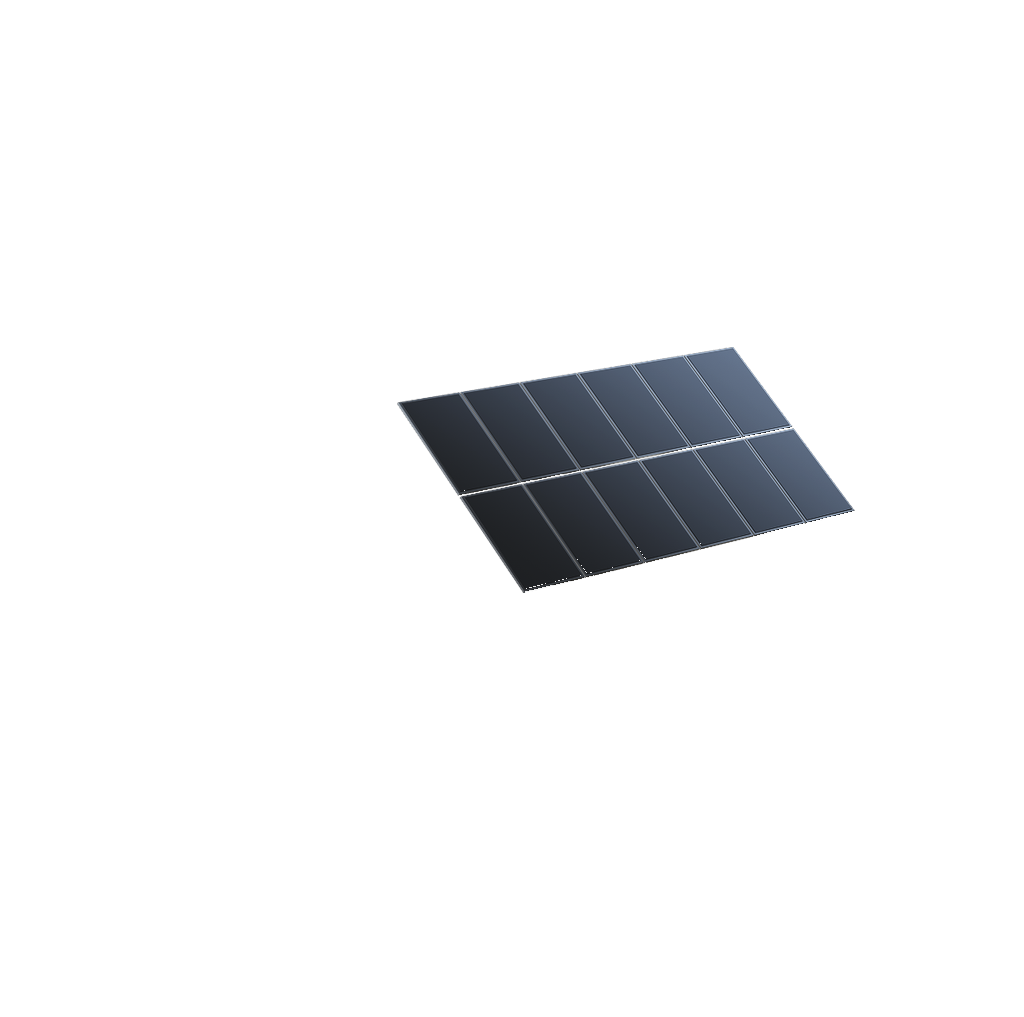
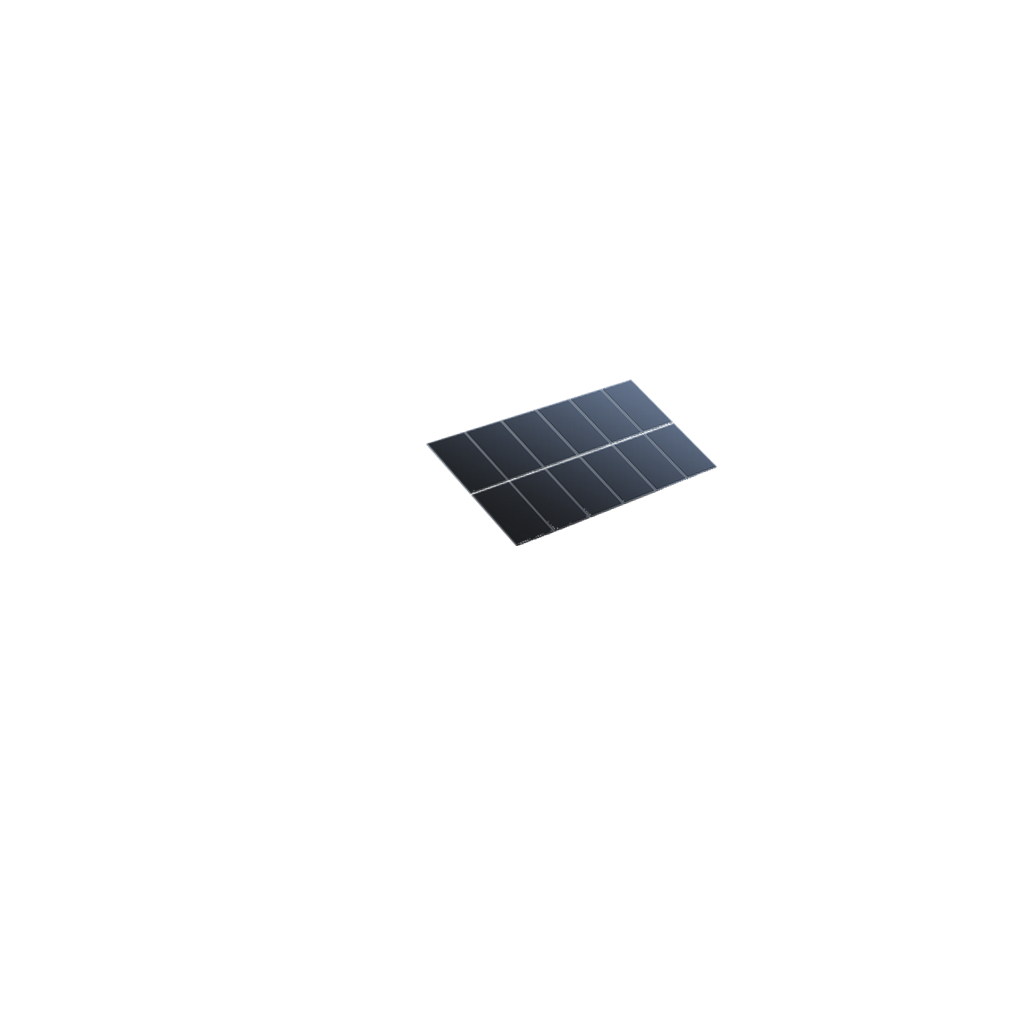
Align solar panels to roof perspective v0.8.88
Warp PV overlay onto the isometric roof plane instead of a flat rectangle so size and angle match the Fox app.

Changed region(s): [[0.375, 0.3353, 0.8438, 0.5792]]

diff --git a/custom_components/foxess_plant/www/foxess-plant-panel.js b/custom_components/foxess_plant/www/foxess-plant-panel.js
@@ -1,7 +1,7 @@
 /**
  * FoxESS Plant panel — HA sidebar app (phases 5a–5e).
  * hass / narrow / panel / route from Home Assistant.
- * @version 0.8.87
+ * @version 0.8.88
  */
 
 const NAV = [
@@ -36,7 +36,7 @@ const FOX_FLOW_PATHS = {
 const FOX_FLOW_HUB_SPOKES = new Set(["solar-aio", "aio-hub", "hub-aio", "hub-home", "grid-hub", "hub-grid"]);
 
 const FLOW_PATHS_VER = "flow-solar-base";
-const PANEL_BUILD_FALLBACK = "0.8.87";
+const PANEL_BUILD_FALLBACK = "0.8.88";
 const PANEL_ELEMENT = `foxess-plant-panel-${PANEL_BUILD_FALLBACK.replace(/\./g, "_")}`;
 
 /** Register current and recent version tags so HACS updates never leave a blank panel. */
@@ -66,7 +66,7 @@ function registerFoxessPlantPanel() {
 const FLOW_STROKE = { base: 5, active: 6, hubR: 8 };
 const FLOW_DASH = "20 24";
 const FLOW_SCENE_PV_THRESHOLD_W = 40;
-const FLOW_SCENE_ASSET_VER = 17;
+const FLOW_SCENE_ASSET_VER = 18;
 
 const FLOW_SCENE_BG_THEMES = new Set([
   "day_light",

diff --git a/tools/compose_flow_layers.py b/tools/compose_flow_layers.py
@@ -15,9 +15,14 @@ CANVAS = (1024, 1017)
 
 # Fractions of 1024×1017 — tune here, then re-run: python tools/compose_flow_layers.py
 BOXES = {
-    "pv": {"left": 0.388, "top": 0.342, "width": 0.448, "height": 0.242},
     "aio": {"left": 0.312, "top": 0.622, "width": 0.136, "height": 0.222},
 }
+# PV uses perspective quad in tools/bake_flow_home_scenes.ps1 (not axis-aligned box).
+PV_ROOF_QUAD = (
+    (422, 410),
+    (706, 368),
+    (438, 558),
+)
 
 # Scene anchors (viewBox 0 0 1024 1017)
 # LOCKED (v0.8.47): HUB was hand-tuned on the side/front wall corner — do NOT change
@@ -45,19 +50,28 @@ def box_pixels(box: dict) -> tuple[int, int, int, int]:
     return left, top, width, height
 
 
+def _pv_quad_metrics() -> tuple[int, int, int, int]:
+    (tlx, tly), (trx, try_), (blx, bly) = PV_ROOF_QUAD
+    brx = blx + trx - tlx
+    bry = bly + try_ - tly
+    solar_x = (tlx + trx + blx + brx) // 4
+    pv_top = min(tly, try_)
+    pv_bottom = max(bly, bry)
+    return solar_x, pv_top, pv_bottom, try_
+
+
 def derive_anchors() -> dict[str, tuple[int, int]]:
-    pv_l, pv_t, pv_w, pv_h = box_pixels(BOXES["pv"])
+    solar_x, pv_top, pv_bottom, _pv_try = _pv_quad_metrics()
     aio_l, aio_t, aio_w, aio_h = box_pixels(BOXES["aio"])
-    solar_x = pv_l + pv_w // 2
     aio_x = aio_l + aio_w // 2
     aio_edge = aio_l + aio_w  # right edge of AIO placement box
     aio_connect = AIO_CONNECT  # tap visible AIO face (pixel-tuned on flow_aio_scene)
-    solar_roof_y = SOLAR_ROOF_Y.get(solar_x, pv_t)
-    aio_roof_y = SOLAR_ROOF_Y.get(aio_x, pv_t)
+    solar_roof_y = SOLAR_ROOF_Y.get(solar_x, pv_top)
+    aio_roof_y = SOLAR_ROOF_Y.get(aio_x, pv_top)
     return {
         "solar_label": (solar_x, SOLAR_LABEL_Y),
         "solar_top": (solar_x, solar_roof_y),
-        "solar_base": (solar_x, pv_t + pv_h),
+        "solar_base": (solar_x, pv_bottom),
         "aio_top": (aio_x, aio_t + int(aio_h * 0.12)),
         "aio_mid": (aio_x, aio_t + aio_h // 2),
         "aio_x": aio_x,
@@ -95,8 +109,11 @@ def flow_paths(anchors: dict[str, tuple[int, int]]) -> dict[str, str]:
 
 
 def place_sprite(theme: str, layer: str) -> None:
-    src_name = f"flow_{layer}" if layer == "pv" else "flow_aio_812"
-    src = WWW / f"{src_name}_{theme}.png"
+    """Bake AIO only; run bake_flow_home_scenes.ps1 for PV perspective placement."""
+    if layer != "aio":
+        print(f"skip {layer}: use bake_flow_home_scenes.ps1")
+        return
+    src = WWW / f"flow_aio_812_{theme}.png"
     out = WWW / f"flow_{layer}_scene_{theme}.png"
     sprite = remove_black_matte(Image.open(src).convert("RGBA"))
     left, top, bw, bh = box_pixels(BOXES[layer])
@@ -109,7 +126,6 @@ def place_sprite(theme: str, layer: str) -> None:
 
 def main() -> None:
     for theme in ("day_light", "night_dark"):
-        place_sprite(theme, "pv")
         place_sprite(theme, "aio")
     a = derive_anchors()
     paths = flow_paths(a)